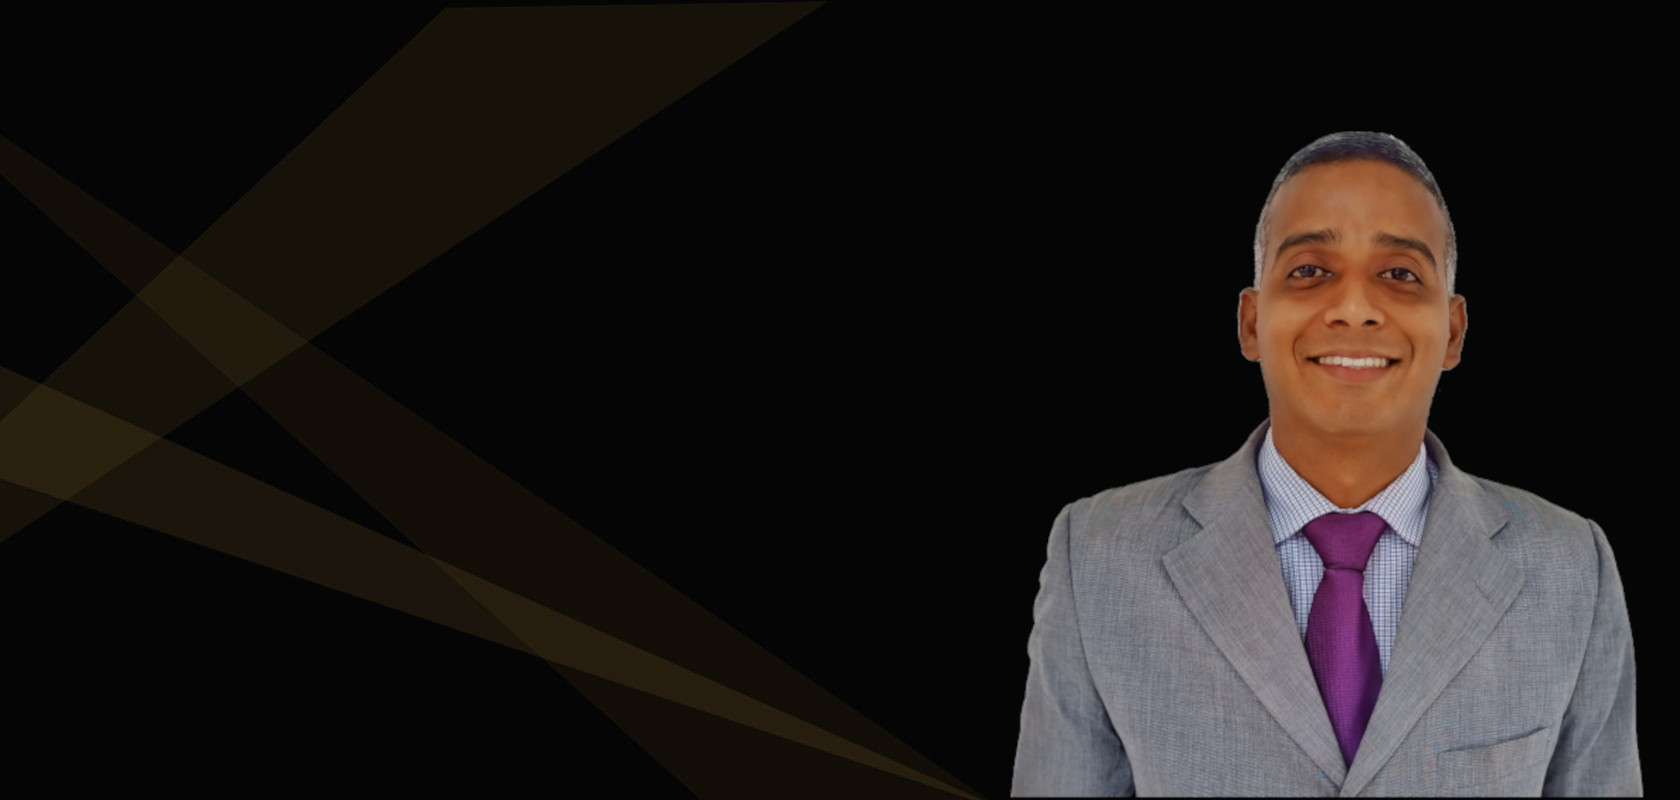
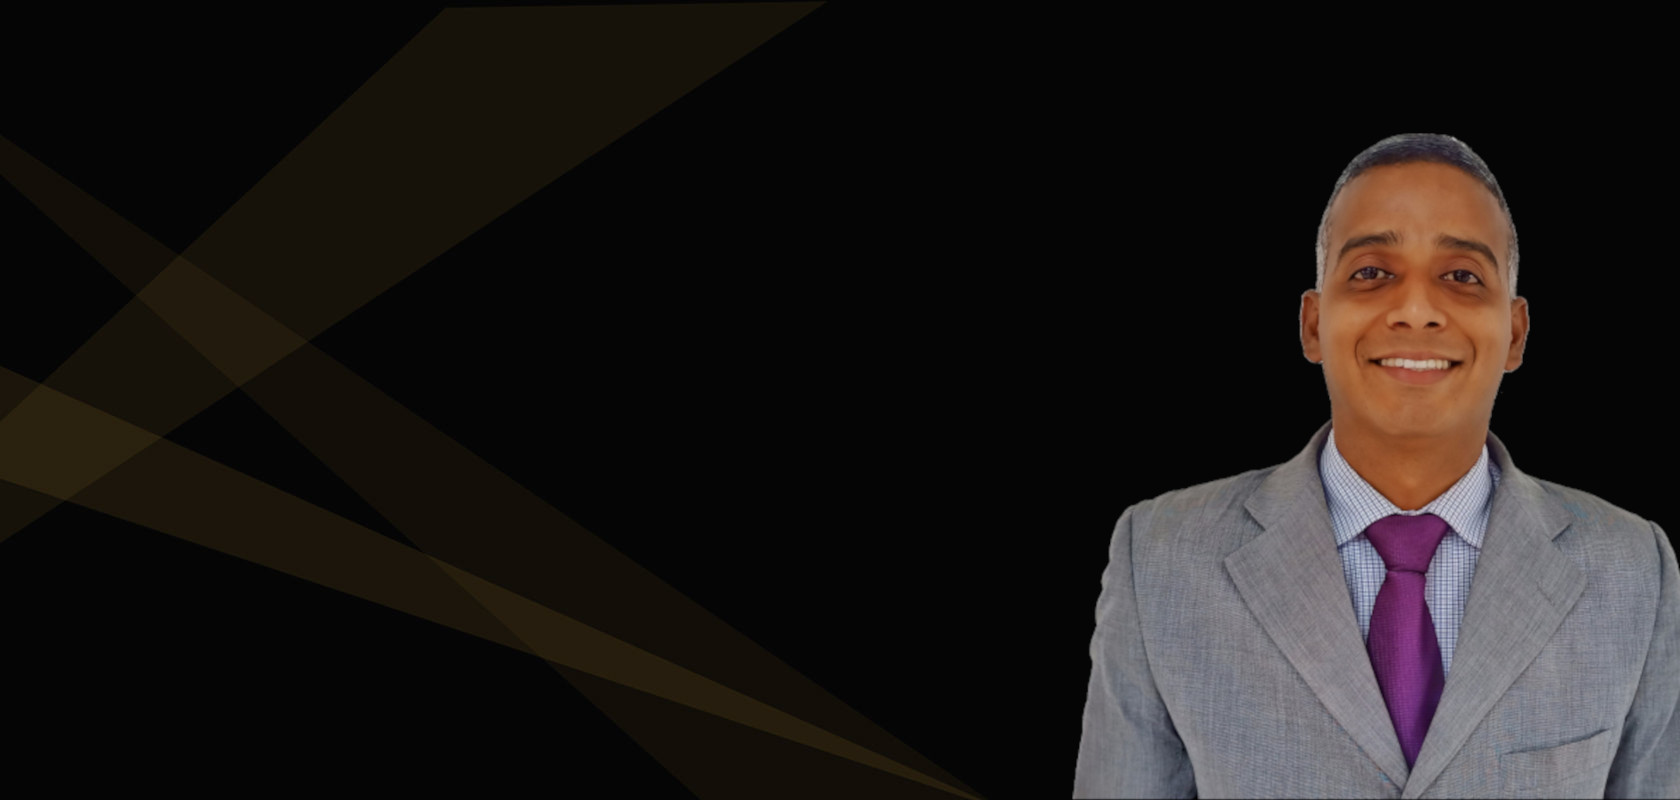
Ajustes varios
- Fix: ajuste en imagen principal
- Fix: ajuste en íconos

Changed region(s): [[0.5881, 0.1562, 1.0, 1.0], [0.7119, 0.8125, 0.7429, 0.8438]]

diff --git a/index.html b/index.html
@@ -72,7 +72,7 @@
             <div class="serv-content">
                 <div class="card">
                     <div class="box">
-                        <i class="fas fa-paint-brush"></i>
+                        <i class="fas fa-briefcase-medical"></i>
                         <div class="text">Diagnóstico</div>
                         <p>Detecto fallas y problemas en cualquier dispositivo eléctrico/electrónico, así como también proveo
                         las posibles soluciones, incluyendo los repuestos necesarios si así lo amerita</p>
@@ -80,7 +80,7 @@
                 </div>
                 <div class="card">
                     <div class="box">
-                        <i class="fas fa-chart-line"></i>
+                        <i class="fas fa-tools"></i>
                         <div class="text">Reparación</div>
                         <p>Reemplazo de componentes dañados (incluyendo microelectrónica), repaso de soldaduras frías,
                         limpieza y mantenimiento de tarjetas con solventes especiales</p>
@@ -88,7 +88,7 @@
                 </div>
                 <div class="card">
                     <div class="box">
-                        <i class="fas fa-code"></i>
+                        <i class="fas fa-broom"></i>
                         <div class="text">Mantenimiento</div>
                         <p>Para mantener el buen funcionamiento de un equipo, es vital realizar el mantenimiento preventivo adecuado,
                         lo que permitirá, entre otras cosas, prolongar su vida útil y evitar reparaciones costosas</p>

diff --git a/style.css b/style.css
@@ -269,7 +269,7 @@ section .title::after{
 .services .title::after,
 .teams .title::after{
     background: #111;
-    content: "Te puedo ayudar";
+    content: "Te ayudo";
 }
 .services .serv-content .card{
     width: calc(33% - 20px);
